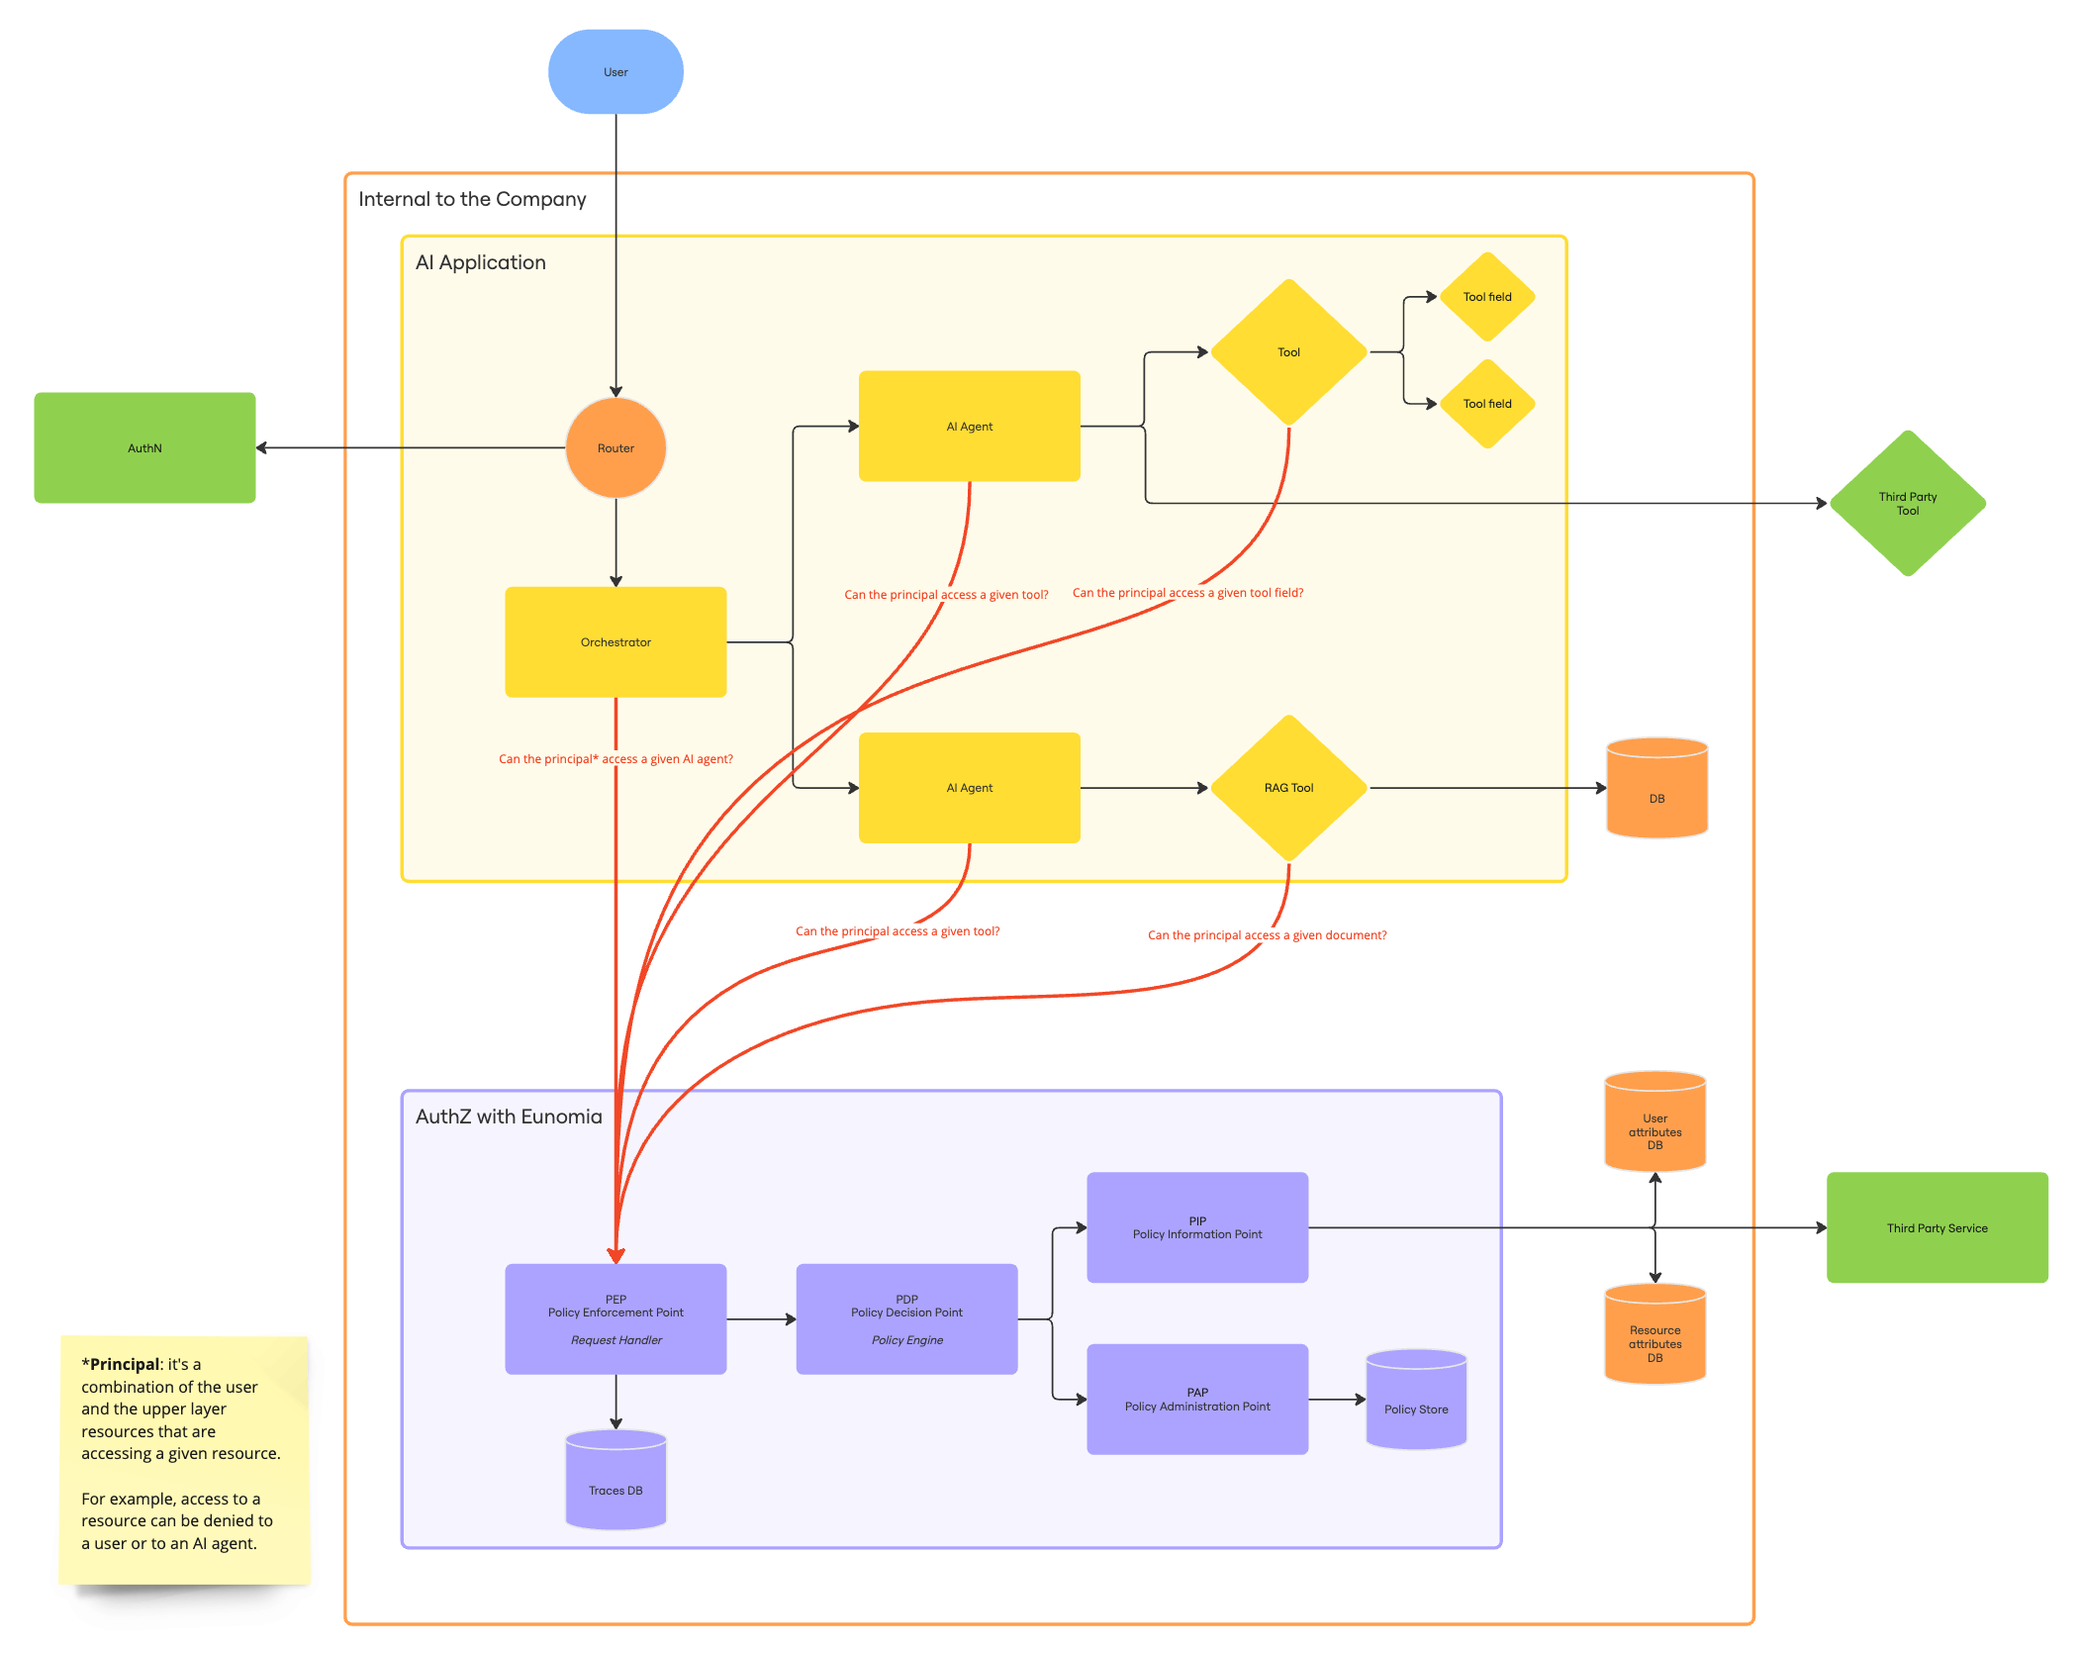
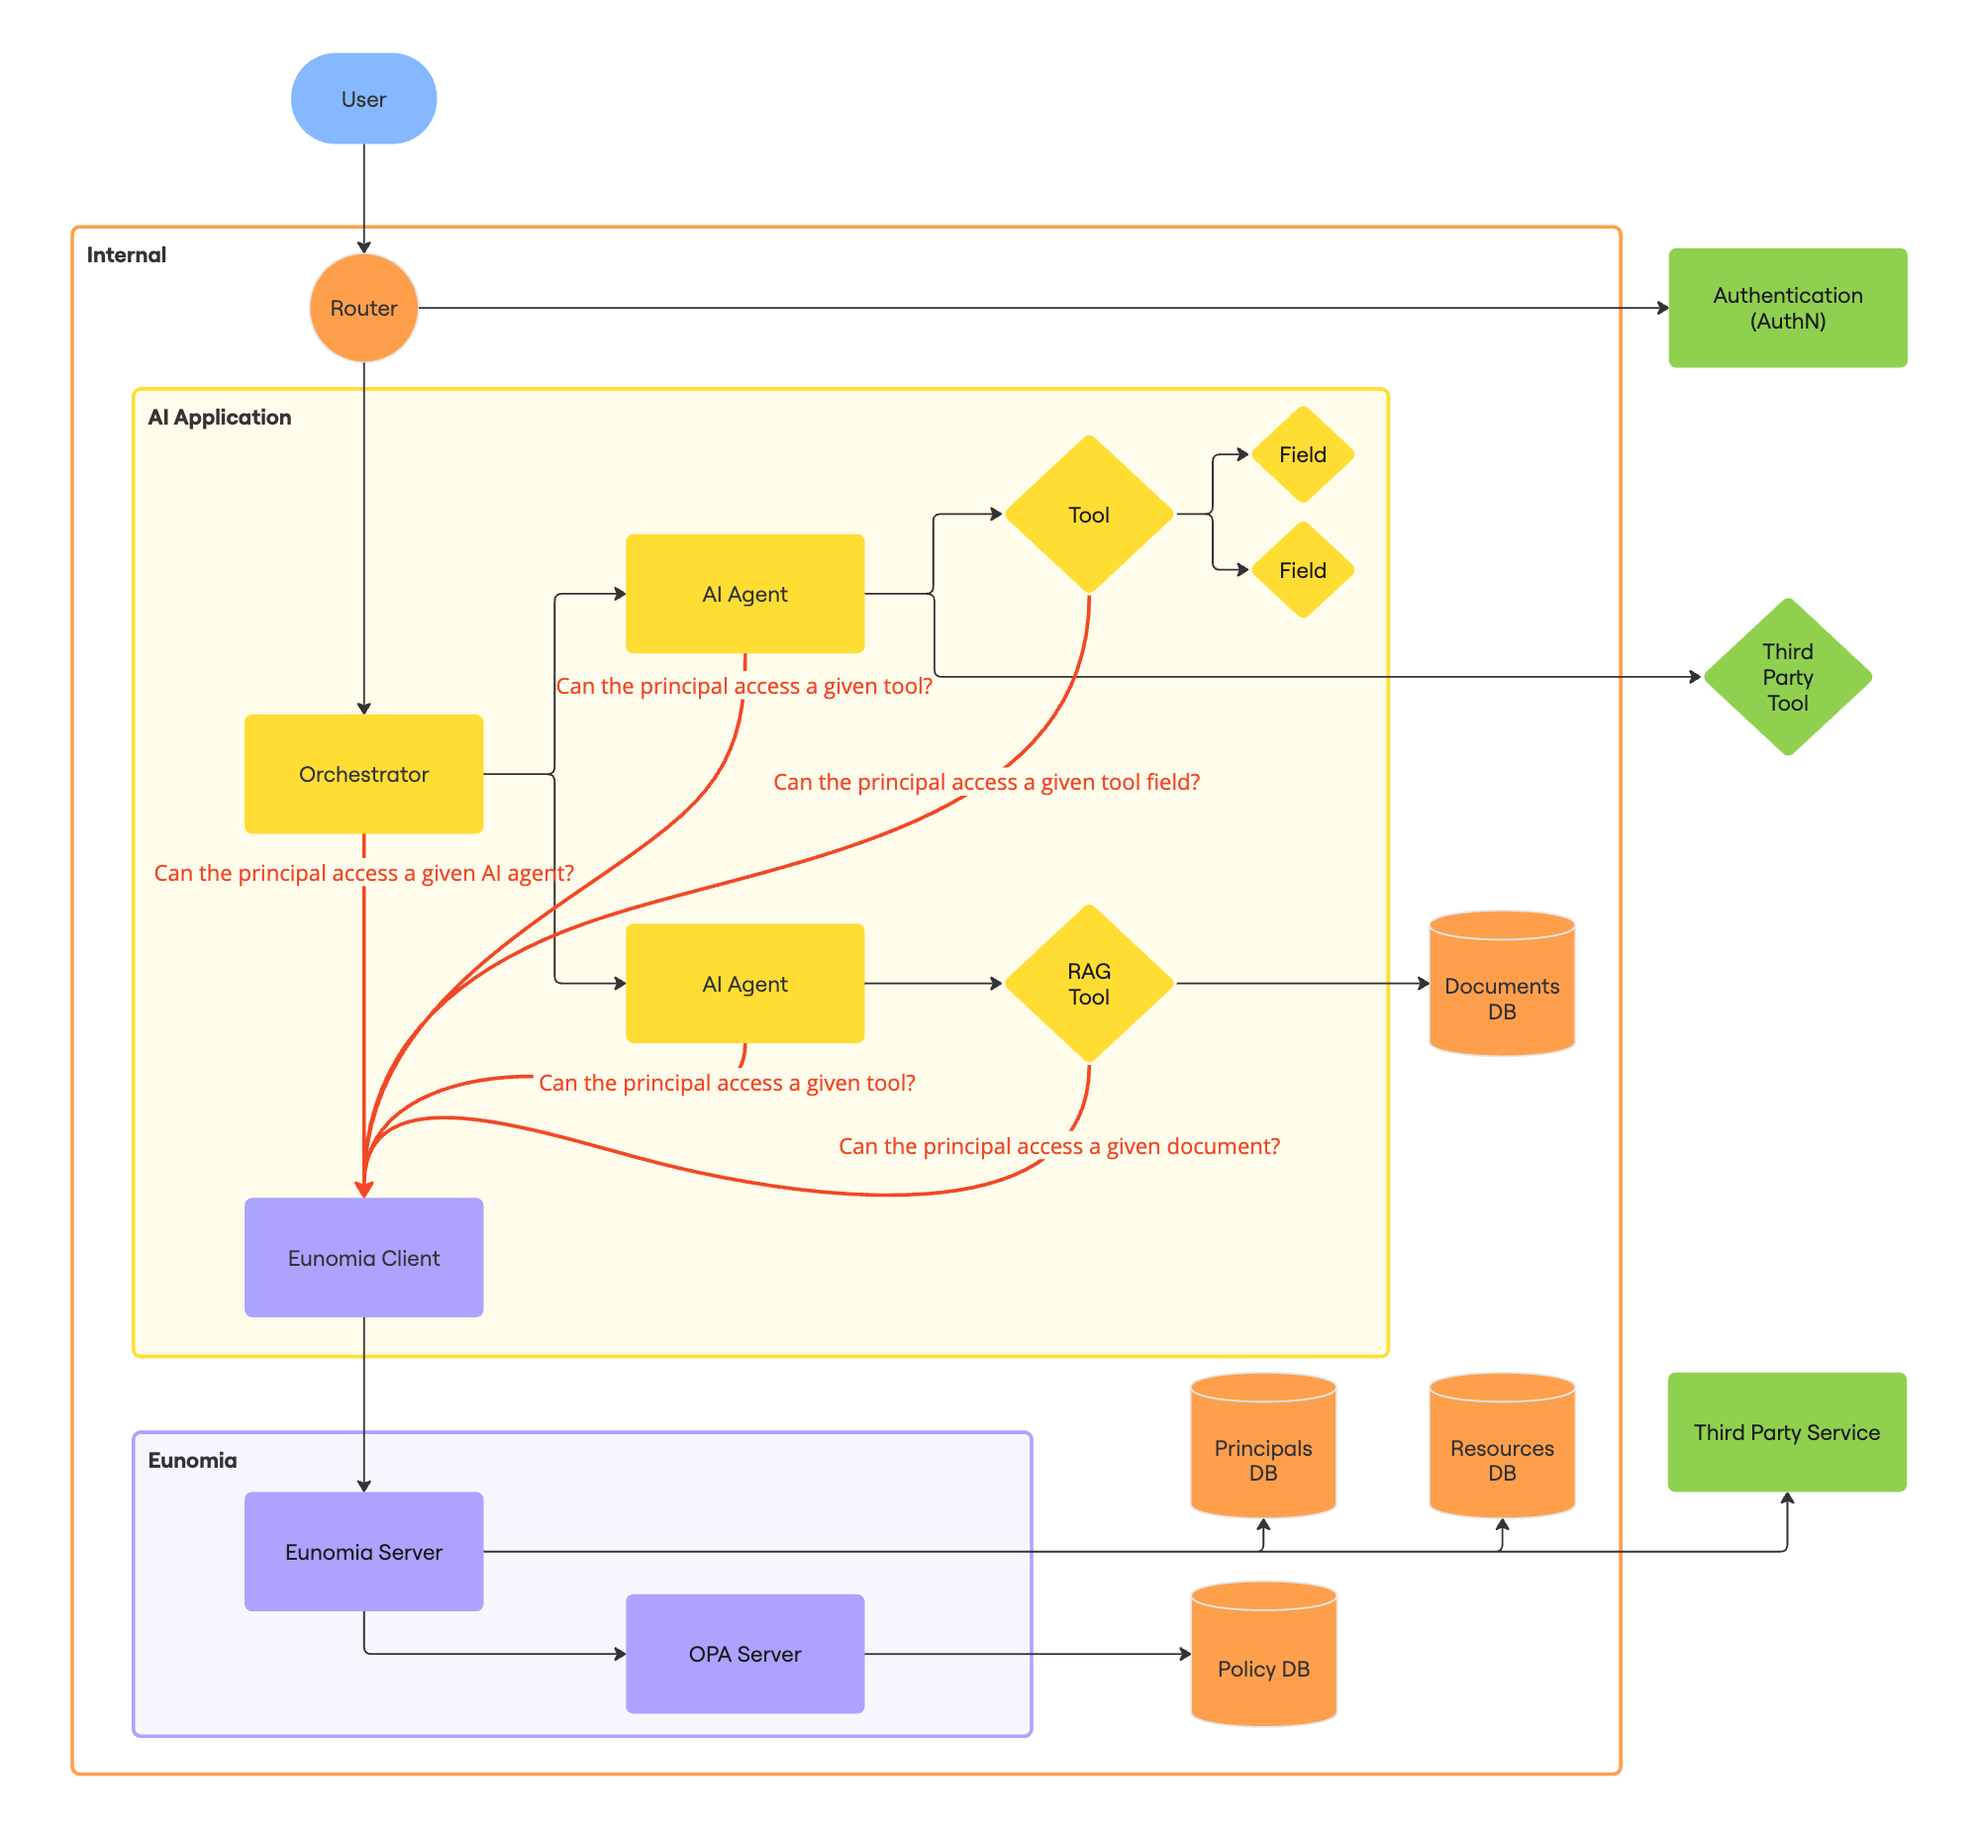
Update get started docs

diff --git a/docs/get_started/index.md b/docs/get_started/index.md
@@ -8,6 +8,9 @@ Eunomia is a Python library that allows you to decouple the authorization logic 
 
 It is built and maintained by [What About You][whataboutyou-website], while contributions are welcome from the [community](../community/index.md).
 
+!!! warning
+    Eunomia is currently under active development and therefore subject to change.
+
 ## How to Get Started?
 
 <div class="grid cards" markdown>
@@ -55,7 +58,59 @@ As AI-driven applications evolve, the necessity of separating authorization conc
 
 This library aims to provide a structured approach to **decoupling authorization policies from AI Agent architectures**, enabling developers to focus on agents' performance while ensuring robust and scalable security mechanisms.
 
+## How does Eunomia work?
+
+Eunomia is a standalone authorization server that can be integrated into any application. It follows a client-server architecture where the server handles all authorization logic, while clients interact with it through a REST API or available SDKs.
+
 ![schema](../assets/schema.png)
+
+### Architecture Overview
+
+Eunomia uses a decoupled architecture consisting of two main components:
+
+1. **Server**: A standalone service that manages authorization policies, storing metadata for principals and resources, and making access control decisions. The server is built on top of [Open Policy Agent (OPA)][opa-website] and exposes a REST API.
+
+2. **Client**: A component integrated into your application that communicates with the Eunomia server. You can interact with the server either directly through HTTP requests or by using one of the provided SDKs for a more streamlined experience.
+
+### Authorization Workflow
+
+Working with Eunomia involves two distinct phases:
+
+#### Policy Configuration Phase
+
+In this phase, you configure the authorization policies that will govern access control in your application:
+
+- **Define Policies**: Write policies using the Rego policy language to specify access rules based on principals and resources attributes.
+- **Register Resources**: Register the resources (like documents, applications, or AI agents) that need to be protected, along with their metadata.
+- **Register Principals**: Register the principals (entities requesting access[*](#understanding-principals)) with their metadata that will be used for authorization decisions.
+
+For example, you might register an AI agent as a resource with its capabilities as metadata, and register users as principals with their roles and departments as metadata.
+
+#### Policy Enforcement Phase
+
+At runtime, your application enforces the configured policies by:
+
+- **Access Checks**: Sending access check requests to the Eunomia server, providing both the principal ID and resource ID.
+- **Policy Evaluation**: The server retrieves the metadata for both entities and evaluates it against the defined policies.
+- **Authorization Decision**: The server returns a boolean result indicating whether access should be granted or denied.
+
+### What is a Principal?
+
+In Eunomia, a _principal_ represents an entity requesting access to a resource. What makes Eunomia powerful is that a principal can be:
+
+- A single actor (like a user)
+- A combination of multiple actors (like a user interacting through a specific AI agent)
+
+This allows for complex authorization scenarios where access depends not just on who is requesting access, but also on the context of the request.
+
+## Development Roadmap
+
+- [ ] Easier policy definition without Rego
+- [ ] Integration for LangChain
+    - [x] Streamline documents from LangChain loaders
+    - [ ] Enforce policies on LangChain retrievers
+- [ ] Integration for LangGraph
 
 [eunomia-github]: https://github.com/whataboutyou-ai/eunomia
 [whataboutyou-website]: https://whataboutyou.ai
+[opa-website]: https://www.openpolicyagent.org/

diff --git a/docs/get_started/quickstart.md b/docs/get_started/quickstart.md
@@ -6,7 +6,7 @@ Let's assume you have a multi-agent system where an orchestrator routes the user
 
 You first need to **configure** the policies with the Eunomia server. Then, you need to connect your application to the Eunomia server in order to **enforce** the policies at runtime.
 
-### Configuration
+### Configuration Phase
 
 #### Policy definition
 
@@ -41,7 +41,10 @@ You can now start the Eunomia server:
 fastapi dev src/eunomia/api/main.py
 ```
 
-Register the resources and principals you want to use with the Eunomia server (to use the Python SDK, check out its [documentation](../sdks/python.md) for installation instructions):
+!!! warning
+    This registration step is mandatory right now, but will be made optional in the future - allowing you to directly pass the resources and principals metadata at runtime.
+
+You now need to register the resources and principals you want to use with the Eunomia server:
 
 === "Python"
     ```python
@@ -49,10 +52,11 @@ Register the resources and principals you want to use with the Eunomia server (t
     
     eunomia = EunomiaClient()
 
-    eunomia.register_resource(metadatas={"agent_id": "faq"})
-    eunomia.register_resource(metadatas={"agent_id": "hr"})
-    eunomia.register_principal(metadatas={"department": "hr"})
-    eunomia.register_principal(metadatas={"department": "sales"})
+    faq_agent = eunomia.register_resource(metadatas={"agent_id": "faq"})
+    hr_agent = eunomia.register_resource(metadatas={"agent_id": "hr"})
+
+    user_hr_department = eunomia.register_principal(metadatas={"department": "hr"})
+    user_sales_department = eunomia.register_principal(metadatas={"department": "sales"})
     ```
 
 === "Curl"
@@ -71,7 +75,10 @@ Register the resources and principals you want to use with the Eunomia server (t
     {"status": "success", "eunomia_id": "4f609741-7800-44f6-a1d6-640d6fe9bf01"}
     ```
 
-### Enforcement
+!!! info
+    To use the Python SDK, check out its [documentation](../sdks/python.md) for installation instructions.
+
+### Enforcement Phase
 
 Now, you can enforce the policies in your application at runtime:
 
@@ -81,15 +88,19 @@ Now, you can enforce the policies in your application at runtime:
     
     eunomia = EunomiaClient()
 
-    faq_agent_id = "76d66319-cfb2-4f12-a30a-689dc9dd58b0"
-    hr_agent_id = "e86e248b-2b51-4d34-abb3-3302c047cb72"
-    hr_user_id = "c194e9e4-1086-4d9b-89cb-2236e5158d36"
-    sales_user_id = "4f609741-7800-44f6-a1d6-640d6fe9bf01"
+    eunomia.check_access(user_hr_department["eunomia_id"], faq_agent["eunomia_id"])
+    eunomia.check_access(user_hr_department["eunomia_id"], hr_agent["eunomia_id"])
 
-    eunomia.check_access(hr_user_id, faq_agent_id)
-    eunomia.check_access(hr_user_id, hr_agent_id)
-    eunomia.check_access(sales_user_id, faq_agent_id)
-    eunomia.check_access(sales_user_id, hr_agent_id)
+    eunomia.check_access(user_sales_department["eunomia_id"], faq_agent["eunomia_id"])
+    eunomia.check_access(user_sales_department["eunomia_id"], hr_agent["eunomia_id"])
+    ```
+
+=== "Curl"
+    ```bash
+    curl -X GET http://localhost:8000/check_access?principal_id=c194e9e4-1086-4d9b-89cb-2236e5158d36&resource_id=76d66319-cfb2-4f12-a30a-689dc9dd58b0
+    curl -X GET http://localhost:8000/check_access?principal_id=c194e9e4-1086-4d9b-89cb-2236e5158d36&resource_id=e86e248b-2b51-4d34-abb3-3302c047cb72
+    curl -X GET http://localhost:8000/check_access?principal_id=4f609741-7800-44f6-a1d6-640d6fe9bf01&resource_id=76d66319-cfb2-4f12-a30a-689dc9dd58b0
+    curl -X GET http://localhost:8000/check_access?principal_id=4f609741-7800-44f6-a1d6-640d6fe9bf01&resource_id=e86e248b-2b51-4d34-abb3-3302c047cb72
     ```
 
 === "Output"

diff --git a/docs/server/index.md b/docs/server/index.md
@@ -6,8 +6,8 @@ The Eunomia server is a standalone service to handle the authorization logic of 
 
 Interactions from your application to the Eunomia server are held in two different phases:
 
-- **Configuration**: use Eunomia to define and configure the authorization policies. The server allows you to store metadata for principals and resources which can then be used to define the policies.
-- **Enforcement**: your application can communicate with the server to check if a given principal has access to a specific resource. At runtime, the server retrieves the metadata stored in the previous phase for the given principal and resource and then evaluate them against the defined policies.
+- **Configuration Phase**: use Eunomia to define and configure the authorization policies. The server allows you to store metadata for principals and resources which can then be used to define the policies.
+- **Enforcement Phase**: your application can communicate with the server to check if a given principal has access to a specific resource. At runtime, the server retrieves the metadata stored in the previous phase for the given principal and resource and then evaluate them against the defined policies.
 
 The Eunomia server is built on top of [Open Policy Agent (OPA)][opa-website] which Eunomia will try to install automatically if it is not already present in your system.
 
